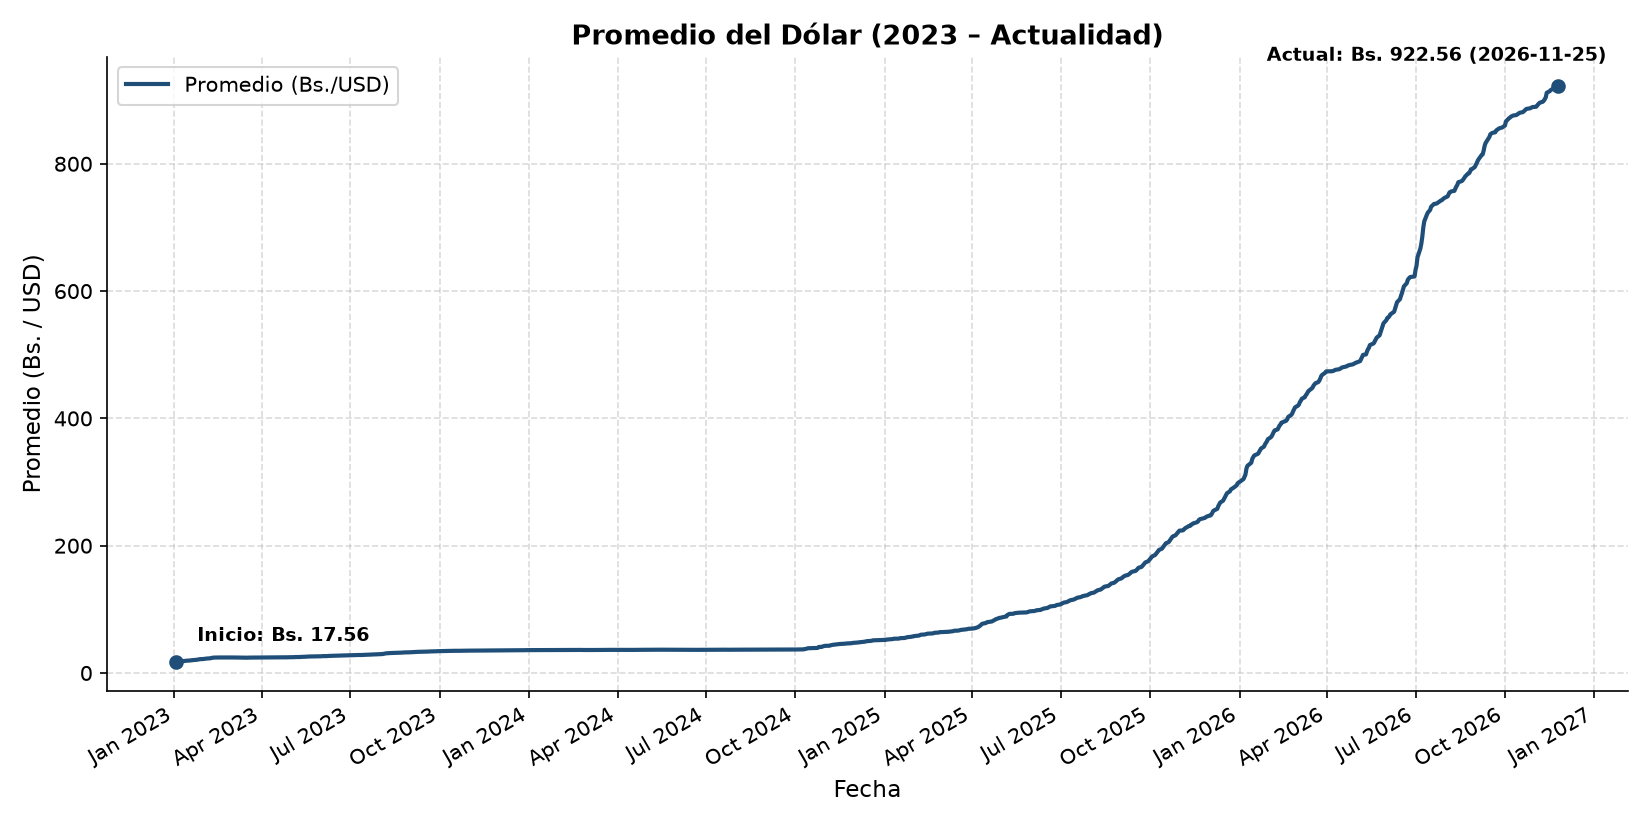
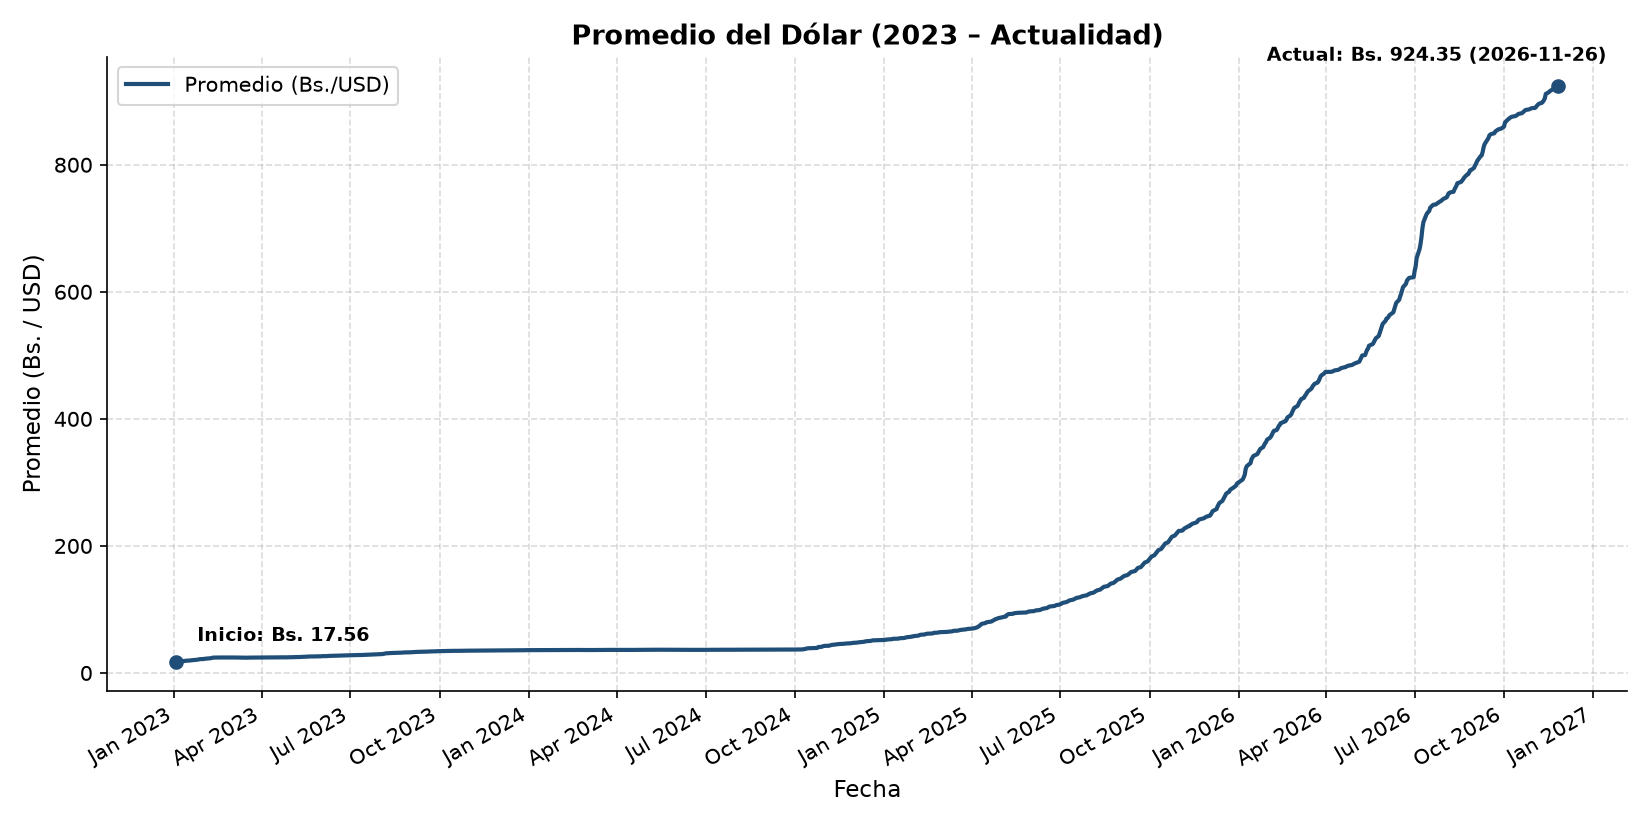
arreglo de graficas

diff --git a/NORTWIND/indicadores/consumo.py b/NORTWIND/indicadores/consumo.py
@@ -4,7 +4,7 @@ import pandas as pd
 matplotlib.use('TkAgg') #soporte para mostrar gráficos en ventanas separadas en linux
 import matplotlib.pyplot as plt
 from config import DATOS
-from utils import mostrar_grafico
+from utils import mostrar_grafico, formato_miles, marcar_fuera_de_escala
 
 def obtener_consumo_familiar():
     df = pd.read_csv(os.path.join(DATOS, "datos_economicos", "Consumo familiar en USD.csv")).sort_values("year")
@@ -20,12 +20,16 @@ def obtener_consumo_familiar():
     df["ma5"] = df["hcons_USD"].rolling(5).mean()
     axes[1].plot(df["year"], df["hcons_USD"], label="Anual", color="#1f618d")
     axes[1].plot(df["year"], df["ma5"], linestyle="--", label="Media móvil 5 años", color="#d35400")
-    axes[1].set_yscale("log")
-    axes[1].set_title("Trayectoria Histórica (1950 – 2024, escala logarítmica)")
+    axes[1].set_ylim(0, 382_000)
+    marcar_fuera_de_escala(axes[1], 2015, 2017, "2015–2017 fuera de escala · máx. 17 927 096")
+    axes[1].set_title("Trayectoria Histórica (1950 – 2024)")
     axes[1].set_xlabel("Año")
-    axes[1].set_ylabel("Millones de USD [Log]")
-    axes[1].grid(True, which="both", linestyle="--", alpha=0.35)
-    axes[1].legend()
+    axes[1].set_ylabel("Millones de USD")
+    axes[1].grid(True, linestyle="--", alpha=0.4)
+    axes[1].legend(loc="upper left")
+
+    formato_miles(axes[0])
+    formato_miles(axes[1])
 
     plt.tight_layout()
     mostrar_grafico(fig)
@@ -61,18 +65,22 @@ def obtener_consumo_gobierno():
 
     axes[0].bar(rec["year"], rec["gcons_USD"], color="#5b2c6f")
     axes[0].set_title("Consumo Gubernamental (2018 – 2024)")
-    axes[0].set_ylabel("Unidades de la serie")
+    axes[0].set_ylabel("Millones de USD")
     axes[0].grid(True, axis="y", linestyle="--", alpha=0.4)
 
     df["ma5"] = df["gcons_USD"].rolling(5).mean()
     axes[1].plot(df["year"], df["gcons_USD"], label="Anual", color="#1f4e78")
     axes[1].plot(df["year"], df["ma5"], linestyle="--", label="Media móvil 5 años", color="#c0392b")
-    axes[1].set_yscale("log")
-    axes[1].set_title("Trayectoria Histórica (1950 – 2024, escala logarítmica)")
+    axes[1].set_ylim(0, 74_000)
+    marcar_fuera_de_escala(axes[1], 2015, 2017, "2015–2017 fuera de escala · máx. 1 812 251")
+    axes[1].set_title("Trayectoria Histórica (1950 – 2024)")
     axes[1].set_xlabel("Año")
-    axes[1].set_ylabel("Unidades de la serie [Log]")
-    axes[1].grid(True, which="both", linestyle="--", alpha=0.35)
-    axes[1].legend()
+    axes[1].set_ylabel("Millones de USD")
+    axes[1].grid(True, linestyle="--", alpha=0.4)
+    axes[1].legend(loc="upper left")
+
+    formato_miles(axes[0])
+    formato_miles(axes[1])
 
     plt.tight_layout()
     mostrar_grafico(fig)

diff --git a/NORTWIND/indicadores/capital_fijo.py b/NORTWIND/indicadores/capital_fijo.py
@@ -4,7 +4,7 @@ matplotlib.use('TkAgg') #soporte para mostrar gráficos en ventanas separadas en
 import pandas as pd
 import matplotlib.pyplot as plt
 from config import DATOS
-from utils import mostrar_grafico
+from utils import mostrar_grafico, formato_miles, marcar_fuera_de_escala
 
 def obtener_formacion_fija_capital_fijo():
     df = pd.read_csv(os.path.join(DATOS, "datos_economicos", "Formación bruta de capital fijo (USD).csv")).sort_values("year")
@@ -20,12 +20,16 @@ def obtener_formacion_fija_capital_fijo():
     df["ma5"] = df["finv_USD"].rolling(5).mean()
     axes[1].plot(df["year"], df["finv_USD"], label="Anual", color="#1f618d")
     axes[1].plot(df["year"], df["ma5"], linestyle="--", label="Media móvil 5 años", color="#c0392b")
-    axes[1].set_yscale("log")
-    axes[1].set_title("Trayectoria Histórica (1950 – 2025, escala logarítmica)")
+    axes[1].set_ylim(0, 110_000)
+    marcar_fuera_de_escala(axes[1], 2015, 2017, "2015–2017 fuera de escala · máx. 3 315 395")
+    axes[1].set_title("Trayectoria Histórica (1950 – 2025)")
     axes[1].set_xlabel("Año")
-    axes[1].set_ylabel("Millones de USD [Log]")
-    axes[1].grid(True, which="both", linestyle="--", alpha=0.35)
-    axes[1].legend()
+    axes[1].set_ylabel("Millones de USD")
+    axes[1].grid(True, linestyle="--", alpha=0.4)
+    axes[1].legend(loc="upper left")
+
+    formato_miles(axes[0])
+    formato_miles(axes[1])
 
     plt.tight_layout()
     mostrar_grafico(fig)

diff --git a/NORTWIND/indicadores/comercio.py b/NORTWIND/indicadores/comercio.py
@@ -5,7 +5,7 @@ matplotlib.use('TkAgg') #soporte para mostrar gráficos en ventanas separadas en
 import pandas as pd
 import matplotlib.pyplot as plt
 from config import DATOS
-from utils import mostrar_grafico
+from utils import mostrar_grafico, formato_miles, marcar_fuera_de_escala
 
 def obtener_importaciones():
     df = pd.read_csv(os.path.join(DATOS, "datos_economicos", "Importaciones en USD.csv")).sort_values("year")
@@ -22,12 +22,16 @@ def obtener_importaciones():
 
     axes[1].plot(df_hist["year"], df_hist["imports_USD"], label="Anual", color="#1f4e78")
     axes[1].plot(df_hist["year"], df_hist["ma5"], linestyle="--", label="Media móvil 5 años", color="#c0392b")
-    axes[1].set_yscale("log")
-    axes[1].set_title("Trayectoria Histórica (1950 – 2027, escala logarítmica)")
+    axes[1].set_ylim(0, 160_000)
+    marcar_fuera_de_escala(axes[1], 2015, 2017, "2015–2017 fuera de escala · máx. 7 337 400")
+    axes[1].set_title("Trayectoria Histórica (1950 – 2027)")
     axes[1].set_xlabel("Año")
-    axes[1].set_ylabel("Millones de USD [Log]")
-    axes[1].grid(True, which="both", linestyle="--", alpha=0.35)
-    axes[1].legend()
+    axes[1].set_ylabel("Millones de USD")
+    axes[1].grid(True, linestyle="--", alpha=0.4)
+    axes[1].legend(loc="upper left")
+
+    formato_miles(axes[0])
+    formato_miles(axes[1])
 
     plt.tight_layout()
     mostrar_grafico(fig)

diff --git a/NORTWIND/indicadores/inflacion.py b/NORTWIND/indicadores/inflacion.py
@@ -4,7 +4,7 @@ import matplotlib
 matplotlib.use('TkAgg') #soporte para mostrar gráficos en ventanas separadas en linux
 import matplotlib.pyplot as plt
 from config import DATOS
-from utils import mostrar_grafico
+from utils import mostrar_grafico, formato_miles, marcar_fuera_de_escala
 
 def obtener_inflacion():
     df = pd.read_csv(os.path.join(DATOS, "datos_economicos", "inflacion.csv"))
@@ -17,11 +17,13 @@ def obtener_inflacion():
     ax.plot(hist["year"], hist["infl"], marker="o", label="Histórico (forecast = 0)", color="#b22222")
     ax.plot(fcast["year"], fcast["infl"], marker="s", linestyle="--", label="Proyección (forecast = 1)", color="#e67e22")
 
-    ax.set_yscale("log")
-    ax.set_title("Inflación anual en Venezuela (desde 2000, escala logarítmica)")
+    ax.set_ylim(0, 500)
+    marcar_fuera_de_escala(ax, 2018, 2021, "2018–2021 fuera de escala · máx. 65 374 %")
+    ax.set_title("Inflación anual en Venezuela (2000 – 2027)")
     ax.set_xlabel("Año")
-    ax.set_ylabel("Inflación (%) [Escala log]")
-    ax.grid(True, which="both", linestyle="--", alpha=0.35)
-    ax.legend()
+    ax.set_ylabel("Inflación (%)")
+    ax.grid(True, linestyle="--", alpha=0.35)
+    ax.legend(loc="upper left")
+    formato_miles(ax)
     plt.tight_layout()
     mostrar_grafico(fig)

diff --git a/NORTWIND/utils.py b/NORTWIND/utils.py
@@ -3,6 +3,23 @@ import matplotlib
 import requests
 matplotlib.use('TkAgg') #soporte para mostrar gráficos en ventanas separadas en linux
 import matplotlib.pyplot as plt
+from matplotlib.ticker import FuncFormatter
+
+def formato_miles(ax, eje="y"):
+    """Muestra los ticks del eje con separador de miles y sin notación científica."""
+    formateador = FuncFormatter(lambda valor, _: f"{valor:,.0f}")
+    if eje == "y":
+        ax.yaxis.set_major_formatter(formateador)
+    else:
+        ax.xaxis.set_major_formatter(formateador)
+
+def marcar_fuera_de_escala(ax, desde, hasta, nota, color="#c0392b"):
+    """Sombrea un periodo con valores fuera del tope del eje y lo explica con una nota."""
+    ax.axvspan(desde - 0.5, hasta + 0.5, color=color, alpha=0.10, zorder=0)
+    ax.text(0.985, 0.96, nota, transform=ax.transAxes, va="top", ha="right",
+            fontsize=8, color=color,
+            bbox=dict(boxstyle="round,pad=0.35", facecolor="white",
+                      edgecolor=color, alpha=0.9), zorder=6)
 
 def mostrar_grafico(fig, titulo="Presiona ESC para cerrar la gráfica"):
     """Muestra la figura maximizada (pantalla completa) para verla completa sin moverla.

diff --git a/NORTWIND/config.py b/NORTWIND/config.py
@@ -17,5 +17,3 @@ if os.name == 'nt':
         sys.stderr.reconfigure(encoding='utf-8', errors='replace')
     except Exception:
         pass
-
-plt.rcParams['text.parse_math'] = False
